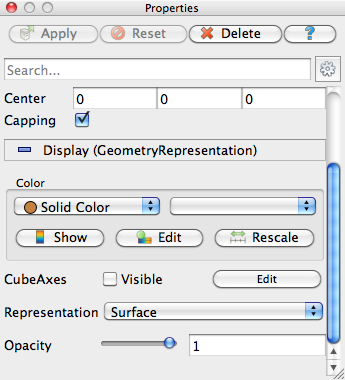
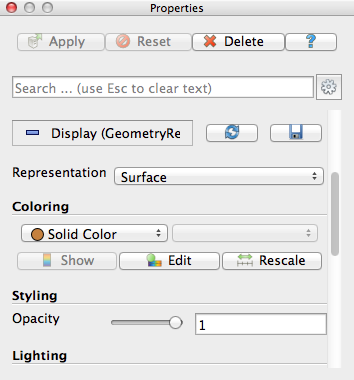
Update changes to organization of display and view properties.
These are now all consolidated into the properties panel.

diff --git a/BasicUsage.tex b/BasicUsage.tex
@@ -83,7 +83,19 @@ but they are also very handy when exploring ParaView's features.
   Click the \gui{Apply} button \apply to accept the default parameters.
 
   Once you click \gui{Apply}, the cylinder object will be displayed in the
-  3D view window on the right.  You can manipulate this 3D view by dragging
+  3D view window on the right.
+\end{exercise}
+
+Now that we have created our first simple visualization, we want to
+interact with it. There are many ways to interact with a visualization in
+ParaView. We start by exploring the data in the 3D view.
+
+\begin{exercise}{Interacting with a 3D View}
+  \label{ex:InteractingWithA3DView}%
+  This exercise is a continuation of Exercise~\ref{ex:CreatingASource}.
+  You will need to finish that exercise before beginning this one.
+
+  You can manipulate the cylinder in the 3D view by dragging
   the mouse over the 3D view.  Experiment with dragging different mouse
   buttons---left, middle, and right---to perform different rotate, pan, and
   zoom operations.  Also try using the buttons in conjunction with the
@@ -97,7 +109,7 @@ but they are also very handy when exploring ParaView's features.
   \index{toolbar!camera~controls}
 
   ParaView contains a couple of toolbars to help with camera manipulations.
-  The first toolbar, the \gui{Camera Controls} toolbar, shown here provides
+  The first toolbar, the \gui{Camera Controls} toolbar, shown here, provides
   quick access to particular camera views.  The leftmost button
   \icon{pqResetCamera24} performs a \keyterm{reset camera} such that it
   maintains the same view direction but repositions the camera such that
@@ -120,8 +132,8 @@ but they are also very handy when exploring ParaView's features.
     \includegraphics[width=.415\scw]{images/ToolbarCenterAxis}
   \end{inlinefig}
 
-  \index{center~axis~toolbar|see{toolbar, center axis}}
-  \index{toolbar!center~axis}
+  \index{center~axes~toolbar|see{toolbar, center axes}}
+  \index{toolbar!center~axes}
 
   The second toolbar controls the location of the center of rotation and
   the visibility of the orientation axes.  \index{center of rotation!pick}
@@ -131,16 +143,29 @@ but they are also very handy when exploring ParaView's features.
   view, you will notice that the cylinder now rotates around this new
   point.  \index{center of rotation!reset} The next button to the left
   \icon{pqResetCenter24} replaces the center of rotation to the center of
-  the object.  \index{center of rotation!show}\index{axis!center of
+  the object.  \index{center of rotation!show}\index{axes!center of
     rotation} The next button to the left \icon{pqShowCenterAxes24} shows
-  or hides and axis drawn at the center of rotation.  (You probably will
+  or hides axes drawn at the center of rotation.  (You probably will
   not notice the effects when the center of rotation is at the center of
   the cylinder because the axes will be hidden by the cylinder.  Use the
   pick center of rotation \icon{pqPickCenter24} again and you should be
   able to see the effects.)  The final leftmost button
   \icon{pqShowOrientationAxes32} toggles showing the
-  \index{axis!orientation|see{orientation axes}}\keyterm{orientation axes},
+  \index{axes!orientation|see{orientation axes}}\keyterm{orientation axes},
   the always-viewable axes in the lower left corner of the 3D view.
+\end{exercise}
+
+Although interactive 3D controls are a vital part of visualization, an
+equally important ability is to modify the parameters of the data
+processing and display. ParaView contains many GUI components for modifying
+visualization parameters, which we will begin to explore in the next
+exercise.
+
+\begin{exercise}{Modifying Visualization Parameters}
+  \label{ex:ModifyingVisualizationParameters}%
+  This exercise is a continuation of
+  Exercise~\ref{ex:InteractingWithA3DView}. You will need to finish that
+  exercise before beginning this one.
 
   You surely noticed that ParaView creates not a real cylinder but
   rather an approximation of a cylinder using polygonal \keyterm{facets}.
@@ -164,12 +189,61 @@ but they are also very handy when exploring ParaView's features.
   Hit the \gui{Apply} button now.  The resolution is changed so that it is
   virtually indistinguishable from a true cylinder.
 
-  If you scroll down to the bottom of the properties panel, you will notice
+  \begin{inlinefig}
+    \includegraphics[width=0.53\scw]{images/DisplayProperties}
+  \end{inlinefig}
+
+  If you scroll down the properties panel, you will notice
   a set of \gui{Display} properties\index{display properties}.  Try these
   options now by clicking on the \gui{Edit}~\icon{pqEditColor24} button to
   change the color of the cylinder. (This button is also replicated in the
   toolbar.) You may notice that you do not need to hit \gui{Apply} for
   display properties.
+
+  \begin{inlinefig}
+    \includegraphics[width=0.53\scw]{images/RenderViewOptions}
+  \end{inlinefig}
+
+  If you scroll down further yet to the bottom of the properties panel, you
+  will notice a set of \gui{View} properties\index{view properties}. Try
+  using the view properties to change the background\index{background color}
+  of the image. Change the background from \gui{Single color} to
+  \gui{Gradient}\index{gradient}\index{background gradient}.  Using a
+  gradient in the background can add glitz to an image, but it can also
+  distract from the data in the visualization. Be aware that some of the
+  view options and object display options can be repeated elsewhere in the
+  ParaView GUI for convenience.
+
+  By default many of the lesser used display properties are hidden.  The
+  \keyterm{advanced properties} toggle~\icon{pqAdvanced26} can be used to
+  show or hide these extra parameters. There is also a search box at the
+  top of the properties panel\index{properties panel!search} that can be
+  used to quickly find a property. Try typing \gui{specular} into this
+  search box now. Under the display properties you should see an option
+  named \gui{Specular}. This controls the intensity of the specular
+  highlight seen on shiny objects. \index{shiny} \index{specular intensity}
+  Set this parameter to \gui{1} to make the cylinder shiny.
+
+  Most objects have similar display and view properties. Here are some
+  other common tricks you can do with most objects using parameters
+  available in the properties panel and that you can try now.
+
+  \begin{itemize}
+  \item \index{cube axes} \index{axes!cube|see{cube axes}} Show 3D axes at
+    the boarders of the object containing rulers showing the physical
+    distance in each direction by clicking the \gui{Show Axes} checkbox
+    under the \gui{Cube Axes} options.
+  \item \index{transparency} \index{opacity} Make objects transparent by
+    changing their \gui{Opacity} parameter. An opacity parameter of 1 is
+    completely opaque, a parameter of 0 is completely invisible, and values
+    in between are varying degrees of see through.
+  \item \index{lighting} The default configuration of lights in a 3D
+    rendering are position to provide a natural shading to best show the
+    structure of objects. If you want to change the lighting (for example,
+    to brightly show a flat surface facing the camera), you can click the
+    \gui{Edit} button under the \gui{Lights} option (an advanced
+    property).
+  \end{itemize}
 \end{exercise}
 
 \index{undo|(}
@@ -202,73 +276,9 @@ created and redo again.
 \index{redo|)}
 \index{undo|)}
 
-\index{view properties}
-\index{render view options}
-There are also many options for selecting how objects are rendered.  You
-will notice over the 3D view a \icon{pqOptions16} button for changing the
-rendering options.  Clicking this brings up a dialog box that allows you to
-change things like the background color, the lighting, and annotation.
-
-\begin{inlinefig}
-  \includegraphics[width=\scw]{images/RenderViewOptions}
-\end{inlinefig}
-
-\index{display properties}
-As discussed in Exercise~\ref{ex:CreatingASource},
-another location for rendering options is the \gui{Display} section in the
-properties panel.  These properties provide the rendering options that
-apply specifically for the selected object.  It includes the visibility,
-coloring, and representation.  By default many of the lesser used display
-properties are hidden.  The \keyterm{advanced properties}
-toggle~\icon{pqAdvanced26} can be used to show or hide these extra
-parameters.  Be aware that some of the view options and object display
-options can be repeated elsewhere in the ParaView GUI for convenience.
-
-\begin{inlinefig}
-  \includegraphics[width=0.53\scw]{images/DisplayProperties}
-\end{inlinefig}
-
-\begin{exercise}{Modifying Rendering Parameters}
-  \label{ex:ModifyingRenderingParameters}%
-  Click the \icon{pqOptions16} button above the 3D view to bring up the
-  \gui{Render View Options} dialog box.  Explore the different panels of
-  options.  Try modifying how the view looks in the following ways.
-  (Remember that you will have to hit \gui{Apply} or \gui{OK} before the
-  changes take effect.)
-
-  \begin{itemize}
-  \item \index{background color} Change the background color.  (Notice that
-    you can reset it to the default.)
-  \item \index{orientation axis} Turn the Orientation Axis (the axis in the
-    lower left corner of the view) off and on.  (This can also be done
-    using an icon that looks like the Orientation Axis on the right side of
-    the toolbars on top)
-  \item Move the Orientation Axis in the view.  (Hint: Make the axis
-    interactive and then click and drag in the 3D view.)
-  \end{itemize}
-
-  Now change the drawing parameters of the cylinder.  (If you do not have a
-  cylinder or another pipeline object, create one as described in
-  Exercise~\ref{ex:CreatingASource}.)  Make sure the cylinder is selected
-  in the pipeline browser.  In the properties panel, scroll down to the
-  \gui{Display} section.
-
-  \begin{itemize}
-  \item \index{solid color} \index{object color} Set the (solid) color of
-    the cylinder by clicking the \gui{Edit}~\icon{pqEditColor24} button.
-  \item \index{cube axis} \index{axis!cube|see{cube axis}} Show 3D axes
-    with tic marks giving spatial position (make \gui{Cube Axis} visible).
-  \item \index{shiny} \index{specular intensity} Make the cylinder shiny.
-    (Hint: Make the \gui{Specular Intensity} 1.0.  This is an advanced
-    parameter, so you will need to toggle \icon{pqAdvanced26}.)
-  \item \index{transparency} \index{opacity} Make the cylinder transparent.
-    (Hint: Lower the \gui{Opacity}.)
-  \end{itemize}
-
-  We are done with the cylinder source now.  We can delete the pipeline
-  object by selecting the \gui{Properties} tab and hitting
-  \index{delete~button} delete \delete in the properties panel.
-\end{exercise}
+We are done with the cylinder source now.  We can delete the pipeline
+object by making sure the cylinder is selected in the pipeline browser and
+hitting \index{delete~button} delete \delete in the properties panel.
 
 \index{sources|)}
 
